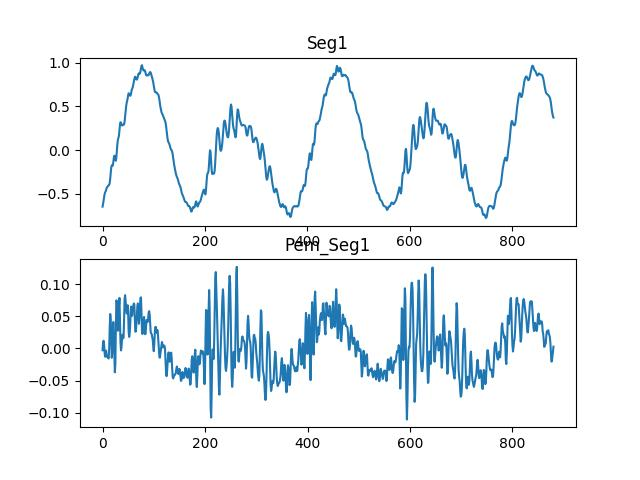
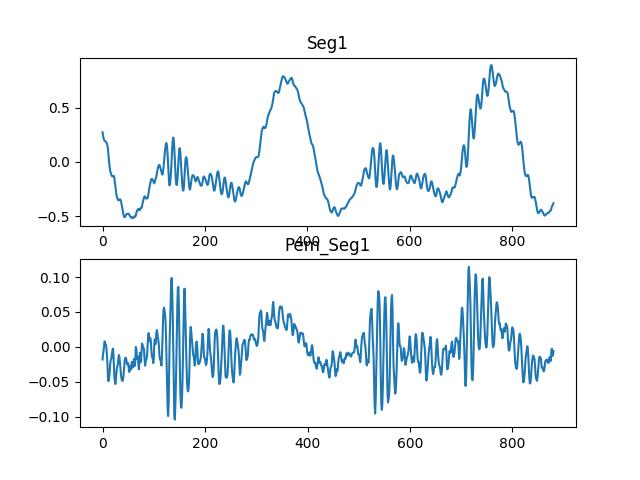
更新结果

diff --git a/assignment/[Asg-1][1155177751][Hong Shengzhe]/signal_analysis.py b/assignment/[Asg-1][1155177751][Hong Shengzhe]/signal_analysis.py
@@ -78,19 +78,24 @@ def endPointDetect(wave_data, energy, zeroCrossingRate) :
     print("较高能量阈值, 计算后的浊音A:" + str(A))
     start = A[0] * 512
     end = A[1] * 512
-#    plt.plot(wave_data)
-#    plt.axvline(start, c = 'r')
-#    plt.axvline(end, c = 'r')
-#    plt.text(start, 0, 'T1', c = 'r')
-#    plt.text(end, 0, 'T2', c = 'r')
-    seg_start = start + 20000
-    seg_end = start + 20882
-#    plt.axvline(seg_start, c = 'y')
-#    plt.axvline(seg_end, c = 'y')
-#    plt.text(seg_end, 0, 'Seg1', c = 'y')
+    
+    seg_start = start + 5000
+    seg_end = start + 5882
+    
+    '''
+    plt.plot(wave_data)
+    plt.axvline(start, c = 'r')
+    plt.axvline(end, c = 'r')
+    plt.text(start, 0, 'T1', c = 'r')
+    plt.text(end, 0, 'T2', c = 'r')
+    plt.axvline(seg_start, c = 'y')
+    plt.axvline(seg_end, c = 'y')
+    plt.text(seg_end, 0, 'Seg1', c = 'y')
+    plt.show()
+    '''
     Seg1 = []
     for i in range(882):
-        Seg1.append(wave_data[start + 20000 + i])
+        Seg1.append(wave_data[start + 5000 + i])
     return Seg1
 
 #傅里叶变换    
@@ -135,7 +140,6 @@ def lpc_coeff(pem_Seg1):
             auto_coeff[i] += pem_Seg1[j] * pem_Seg1[j-i]
             j += 1
         i += 1
-    print(auto_coeff)
     a = []
     for i in range(10):
         tmp = []
@@ -175,8 +179,7 @@ energy = calEnergy(wave_data)
 zeroCrossingRate = calZeroCrossingRate(wave_data)
 Seg1 = endPointDetect(wave_data, energy, zeroCrossingRate)
 pem_Seg1 = pre_em(Seg1)
-#lpc = lpc_coeff(pem_Seg1)
-
+lpc = lpc_coeff(pem_Seg1)
 '''
 plt.subplot(2,1,1)
 plt.plot(Seg1)
@@ -184,5 +187,6 @@ plt.title("Seg1")
 plt.subplot(2,1,2)
 plt.plot(pem_Seg1)
 plt.title("Pem_Seg1")
+plt.show()
 '''
-FT = fourierTransform(Seg1)
+#FT = fourierTransform(Seg1)
